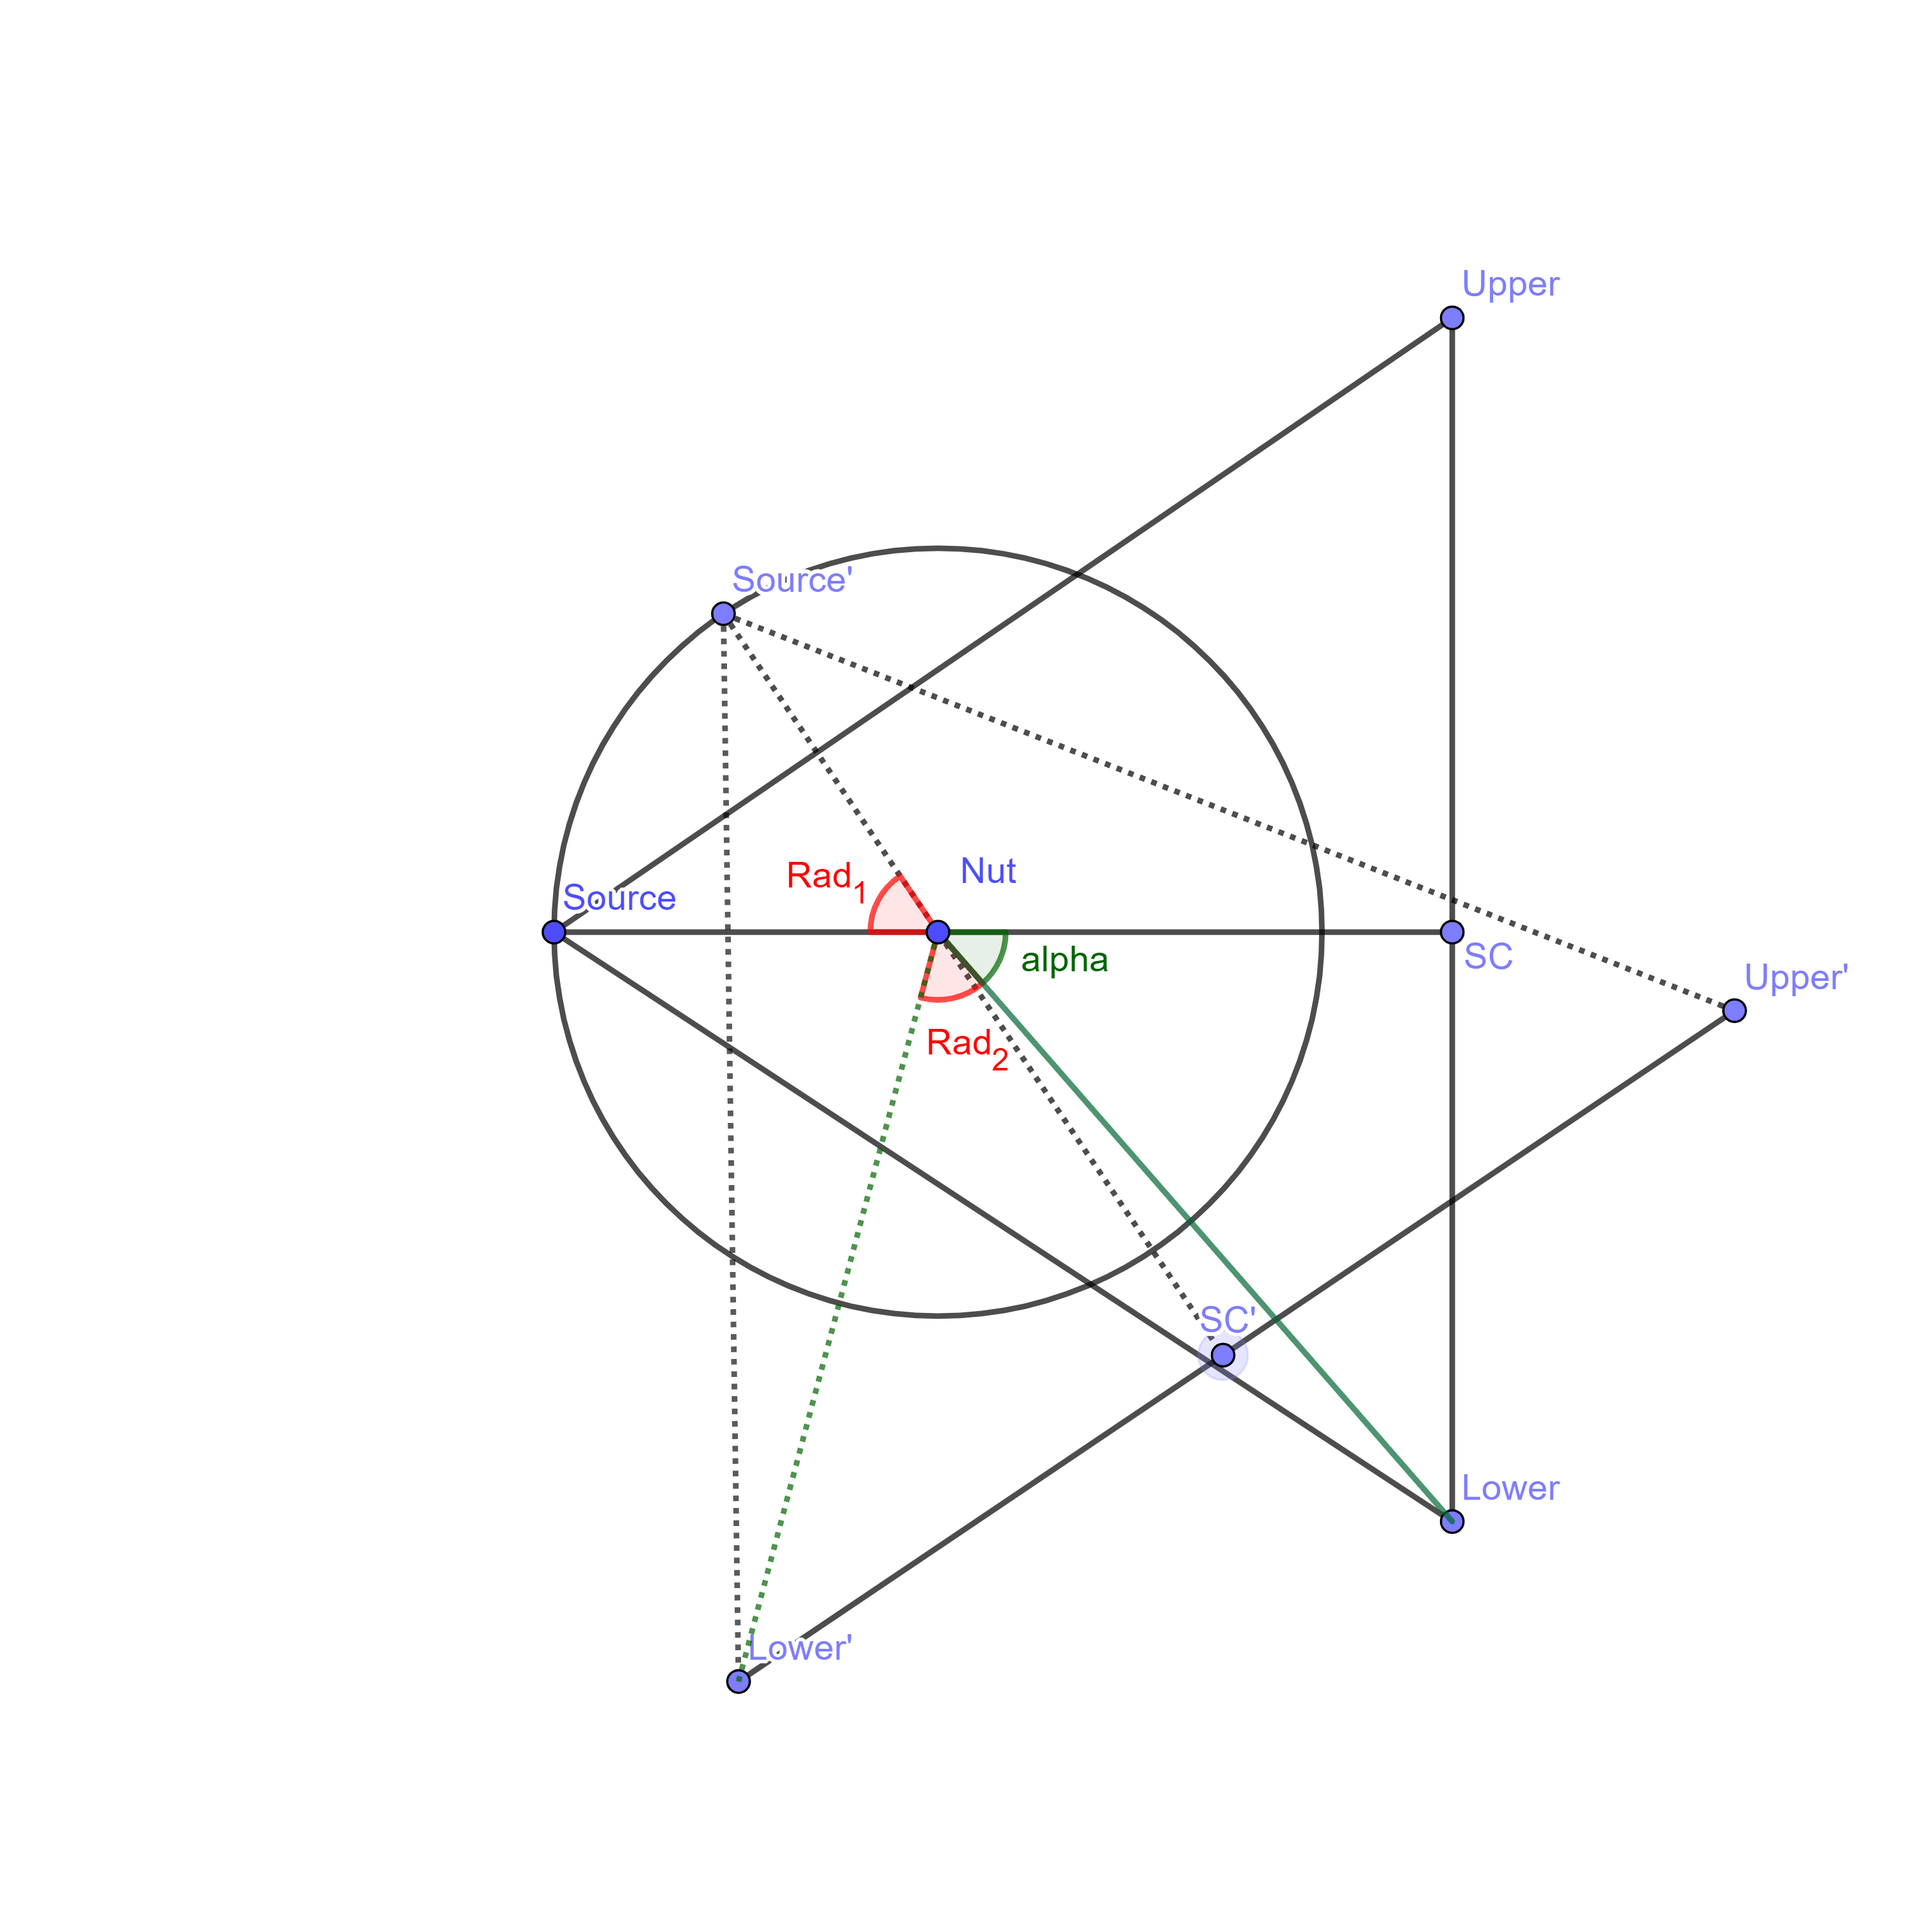
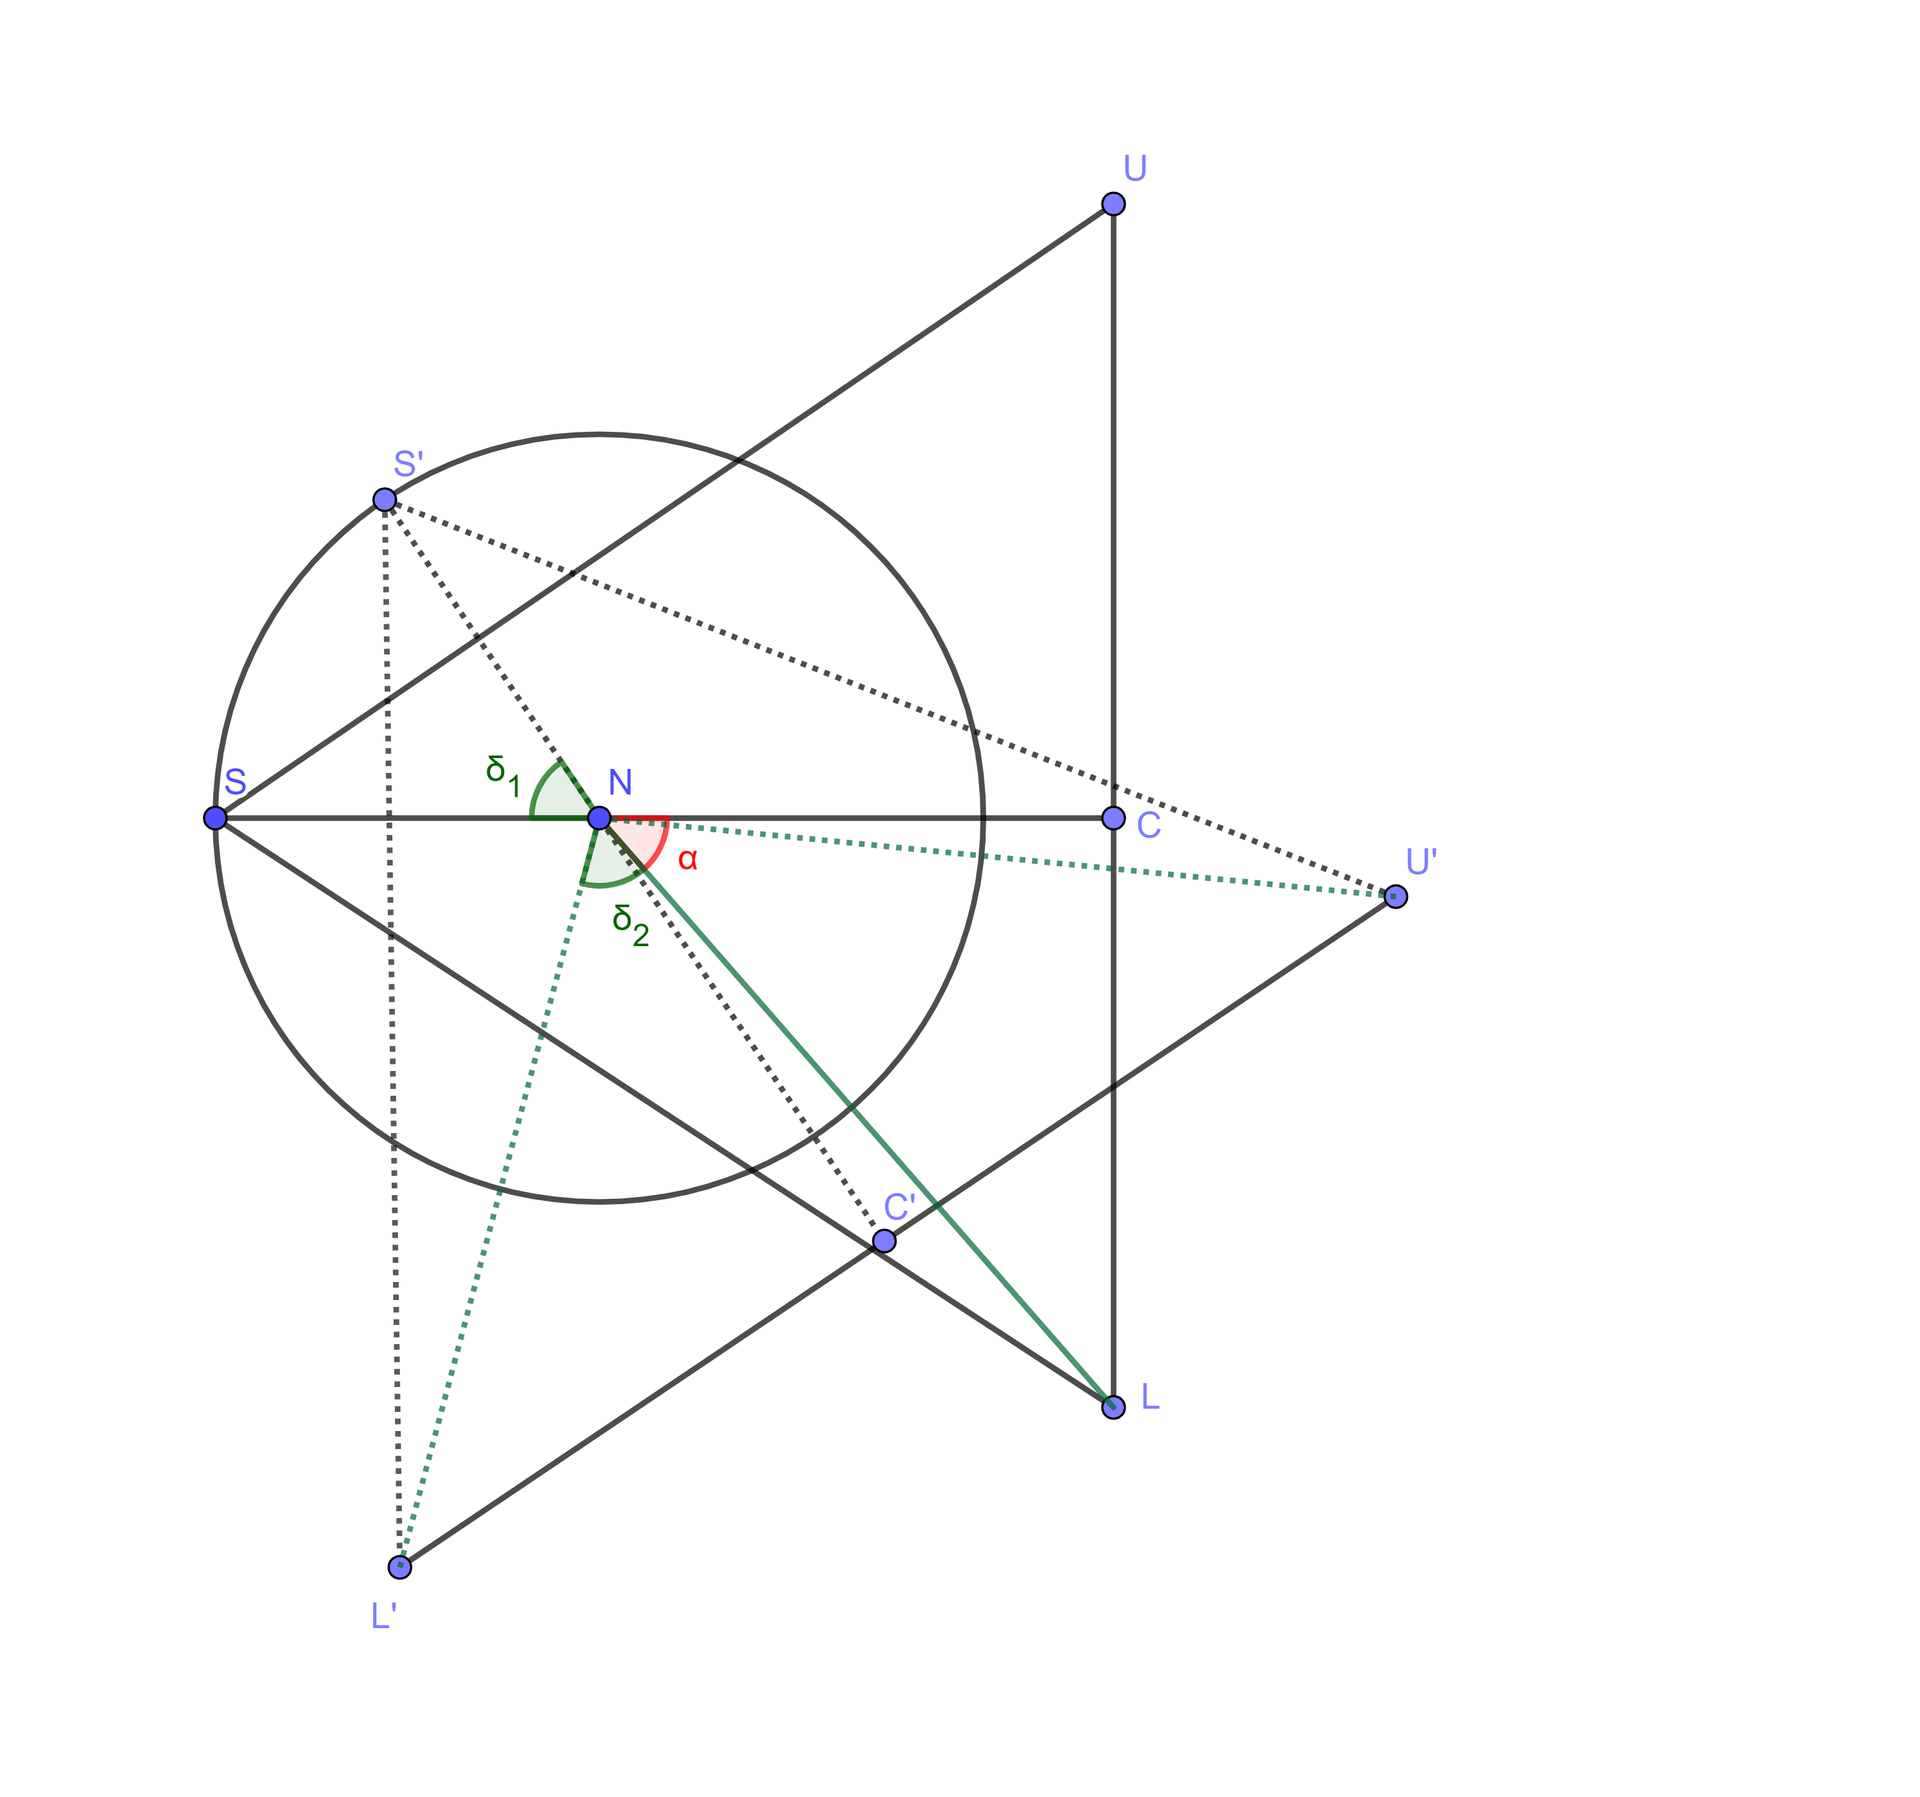
Aenderungen in tomo.tex

diff --git a/themen/tomo.tex b/themen/tomo.tex
@@ -93,42 +93,33 @@ Daraus entsteht für jede Schicht ein Sinogram (Abbildung 1.1), bei dem eine Ach
 
 \subsection{Walnuss CT-Messdaten}\label{k4.2.ct.walnuss}
 \sectionauthor{Leo Bergmann, Cedric Balzer}
-
 \begin{figure}
-    \centering
-    \includegraphics[width=0.7\textwidth]{k4.2/ctabbild.png}
-    \caption{Versuchsaufbau, welcher für das Generieren der Daten verwendet wurde. Die Detektorfläche ist auf der linken Seite die Röntgenquelle auf der rechten Seite. Die Walnuss ist mit einer computergesteuerten rotierbaren Plattform verbunden.}
-    \label{k4.2.fig.ctAbbild}
-\end{figure}
-\begin{figure}
-    \centering
-    \includegraphics[width=0.9\textwidth]{k4.2/geometry.png}
-    \caption{Aufbau des Versuchs mit geometrischen Daten.\\
-    FOD - Focus-to-object distance\\
-    FDD - Focus-to-detector distance\\
-    W - Width of the detector
-    }
-    \label{k4.2.fig.Geo}
+	\centering
+	\includegraphics[width=0.9\textwidth]{geometry.png}
+	\caption{Aufbau des Versuchs mit dessen Geometrie aus \textcite{k4.2.art.walnutXRay}.\\
+	$FOD$ steht für \enquote{Focus-to-object} distance, $FDD$ für \enquote{Focus-to-detector} distance und $W$ für die \enquote{Width of the detector}.
+	}
+	\label{k4.2.fig.geo}
 \end{figure}
 
-Das Ziel des Projekts ist es, einen Computertomographie-Scan (siehe \cref{k4.2.comptomo.ct}) einer Walnuss als Bild darzustellen. Durch die harte Schale und den weichen Kern stellt die Walnuss eine Herausforderung für den CT-Scan dar.
-Wir beziehen öffentlich zugängliche Daten von  \href{https://zenodo.org/record/1254206#.Ys6OHnZBw7c}{zenodo.org}, die eine Schichtaufnahme einer Walnuss als Sinogram in unterschiedlichen Auflösungen in \verb|.mat|-Dateien beinhalten. 
-Es wurden 120 Projektionen der Strahlung auf einem Schirm gemessen und mit einer heruntergerechneten Pixelzahl in einer Matrix m gespeichert. Getestet haben wir Dateien mit 82 und 328 Pixel je Projektion. In dem Versuch wurde eine Walnuss zwischen eine punktförmige Strahlungsquelle und einen flachen Schirm positioniert (\cref{k4.2.fig.ctAbbild}). Nach jeder Messung wurde die Nuss um 3° gegen den Uhrzeigersinn gedreht. Damit das Sinogram in ein CT-Bild projiziert werden kann sind alle Start- und Endpunkte der Line of Sight notwendig. Diese werden ermittelt, indem der Standort der Quelle und die Position der einzelnen Pixel des Screens ermittelt wird. 
+Das Ziel des Projekts ist es ein Bild einer Walnuss, anhand von CT-Scandaten (siehe \cref{k4.2.comptomo.ct}), zu rekonstruieren. Die Herausforderung besteht darin die Unsicherheit in der DIchteverteilung des zu vermessenden Objekts zu quantifiziern. Aus ein Bayes'schen Perspektive (siehe \cref{k4.2.bayes}) quantifiziert der Postirior die Unsichertheit. Die präzise Beschreibung ist bei medizinischer Bildgebung wichtig.
+Die öffentlich zugänglichen Daten verfügbar unter \ml{https://zenodo.org/record/1254206#.Ys6OHnZBw7c}, auf welchen unser Projekt beruht, enthalten Sinogramm und Schichtaufnahme einer Walnuss, welche in \verb|.mat|-Dateien gespeichert sind.
+In dem Versuch wurde eine Walnuss zwischen eine punktförmige Strahlungsquelle und einen flachen Schirm positioniert (\cref{k4.2.fig.ctAbbild}). Nach jeder Messung wurde die Nuss um 3° gegen den Uhrzeigersinn gedreht.
+Es wurde 120 Messungen durchgeführt, welche von dem ebenen Detektor aufgenommen wurden. Diese Daten wurden auf 328 Pixel herunterskaliert und in einer Matrix \verb|m| gespeichert.
+ Damit das Sinogramm in ein Bild der Dichteverteilung zurückprojeziert werden kann sind alle Start- und Endpunkte der Sichtline notwendig. Diese errechnen sich aus der Position der Quelle und der Position der einzelnen Pixel des Screens.\\
+
 
 \begin{figure}
-    \centering
-    \includegraphics[width=0.9\textwidth]{k4.2/versuchsaufbau-skizze.png}
-    \caption{Skizze des Versuchsaufbau}
-    \label{k4.2.fig.skizze}
+	\centering
+	\includegraphics[width=0.9\textwidth]{versuchsaufbau-skizze.png}
+	\caption{Versuchsaufbau skizziert. \\
+	$S$ steht für die Startpunkt der Strahlenquelle, $N$ ist die gescannte Walnuss, $U$ repräsentiert die obere äußere Grenzen des Detektors und $L$ respektive die Untere, $\delta$ steht für den Laufwinkel welcher in 3° Schritten erhöht wird, $\alpha$ für den Winkel zwischen X-Achse und $L$. $C$ ist der Mittelpunkt des Detektors.
+	}
+	\label{k4.2.fig.skizze}
 \end{figure}
-Anstelle einer Drehung der Nuss gegen den Uhrzeigersinn rechnen wir, äquivalent dazu, mit einer kreisförmigen Rotation des Detektors (Screen) und der Strahlungsquelle (Source) um die Walnuss (Nut). Es bieten sich durch gegebene Winkel und Radii Polarkoordinaten an, um die Position der Quelle und des Detektors relativ zu Walnuss zu bestimmen, jedoch müssen alle Punkte für die Weiterverarbeitung im kartesischen Koordinatensystem angegeben und deshalb direkt in diesem berechnet werden. Da die Winkel und Abstandsmaße in Bezug auf die Walnuss angegeben sind, wird diese als Koordinatenursprung definiert. Ausgehend davon wird die Quelle zunächst an die Stelle \verb+(-110|0)+ gelegt (siehe \cref{k4.2.fig.Geo}). Dadurch wird die Startposition des Detektors festgelegt, der durch seinen Anfang ($Upper$) an Stelle \verb+(190|57,4)+ und seinen Endpunkt ($Lower$) an Stelle \verb+(190|-57,4)+ bestimmt wird. 
-Source' ist für jede Drehung der Nuss bzw. der Quelle und des Schirms um den Winkel Rad (im Bogenmaß) im Vergleich zur Startposition der Punkt an dem sich die Quelle nun befindet. Der Abstand zwischen Source' und Nut ist dabei immer 110mm. Der Versuchsaufbau kann somit als Einheitskreis mit Mittelpunkt Nut interpretiert werden, der um den Faktor 110mm gestreckt wurde. Dadurch ist im karthesischen Koordinatensystem die horizontale Koordinaten-Komponente von Source' gleich $cos(Rad) * 110mm$, die vertikale Komponente gleich $sin(Rad) * 110mm$.
-Der Winkel $\sphericalangle Upper-Nut-Lower$ hat eine Größe von etwa 34°, somit hat der Winkel $alpha = \sphericalangle Lower-Nut-SC$ eine Größe von 17°. Der Abstand von Nut zu $Lower$ kann mithilfe des Satzes von Pythagoras berechnet werden:
-\begin{align}
-d = \sqrt{(300mm - 110mm)^2+(114,8mm/2)^2} = 198,48mm
-\end{align}
-Der Winkel $alpha$ addiert mit Rad ergibt zusammen mit der Länge $d$ die Koordinaten $alphas$ im Polarkoordinatensystem (Winkel werden im Bogenmaß verrechnet). Um $Upper'$ zu berechnen muss $alpha$ von Rad subtrahiert werden. Die entsprechenden karthesischen Koordinaten erhalten wir nun auf gleiche Weise bei Source'. Um die restlichen Pixel zu berechnen verwenden wir die Methode \verb+numpy.linspace()+. Wir setzen hier $Upper'$ als Startwert und $Lower'$ als Endwert ein und lassen uns die Menge der Anzahl an Pixeln auf dem Schirm ausgeben. 
 
-Die erhaltenen Start und Endpunkte, in Kombination mit den im Datenset gelieferten Helligkeitswerten kann nun in ein vollständing rüchprojeziertes CT Schichtbild verwandelt werden.
-
-\subsection{Rekonstruktion des Signals}
+Anstelle einer Drehung der Nuss gegen den Uhrzeigersinn betrachten wir, äquivalent dazu, eine kreisförmigen Rotation des Detektors (Screen) und der Strahlungsquelle (S) um die Walnuss (N) (siehe \cref{k4.2.fig.skizze}). Es bieten sich Polarkoordinaten an, um die Position der Quelle und des Detektors relativ zu Walnuss zu bestimmen, jedoch müssen alle Punkte für die Weiterverarbeitung im kartesischen Koordinatensystem angegeben. Da die Winkel und Abstandsmaße in Bezug auf die Walnuss angegeben sind, wird diese als Koordinatenursprung definiert. Ausgehend davon wird die Quelle zunächst an die Stelle $\begin{pmatrix}-110\\ 0 \end{pmatrix}$   gelegt (siehe \cref{k4.2.fig.geo}, \cref{k4.2.fig.skizze}). Dadurch wird die Startposition des Detektors festgelegt, der durch seinen Anfang ($U$) an Stelle $\begin{pmatrix}190\\ 57.4 \end{pmatrix}$ und seinen Endpunkt ($L$) an Stelle $\begin{pmatrix}190\\ -57.4 \end{pmatrix}$ bestimmt wird. 
+$S‘$ entspricht $S$ nach einer Drehung der Quelle und des Detektors um den Winkel $\delta$. Der Abstand zwischen $S‘$ und $\mathrm{N}$ ist dabei immer 110 mm. Der Versuchsaufbau kann somit als Einheitskreis mit Mittelpunkt $N$ interpretiert werden, der um den Faktor 110 mm gestreckt wurde. Dadurch ist im karthesischen Koordinatensystem die horizontale Koordinaten-Komponente von $S‘$ gleich $\cos(\delta) * 110\text{ mm}$ und die vertikale Komponente gleich $\sin(\delta) * 110\text{ mm}$.
+Der Winkel $\sphericalangle U-N-L$ hat eine Größe von etwa 34°, somit hat der Winkel $\alpha = \sphericalangle L-N-C$ eine Größe von 17°. Der Abstand von $N$ zu $L$ kann mithilfe des Satzes von Pythagoras berechnet werden $d = \sqrt{(300\text{ mm} - 110\text{ mm})^2+(114.8\text{ mm}/2)^2} = 198.48\text{ mm}$.
+Der Winkel $\alpha$ addiert mit $\delta$ ergibt zusammen mit der Länge $d$ die Koordinaten $L$ im Polarkoordinaten. Um $U‘$ zu berechnen muss $\alpha$ von $\delta$ subtrahiert werden. Die entsprechenden karthesischen Koordinaten erhalten wir nun auf gleiche Weise bei $S‘$. Die restlichen 328 Pixelpositionen des Detektors sind gleichmäßige auf der Verbindumgsstecke zwischen $U$ und $L$ verteilt.
+Mit den erhaltenen Start- und Endpunkten können die Helligkeitswerte zum Raum der Dichteverteilung zurückprojiziert werden.
